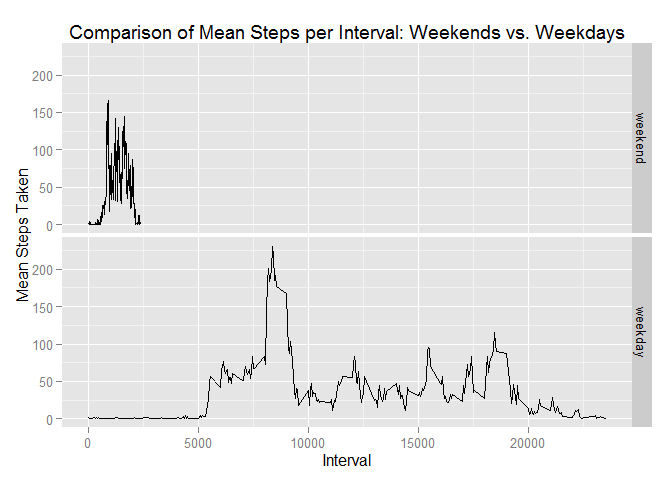
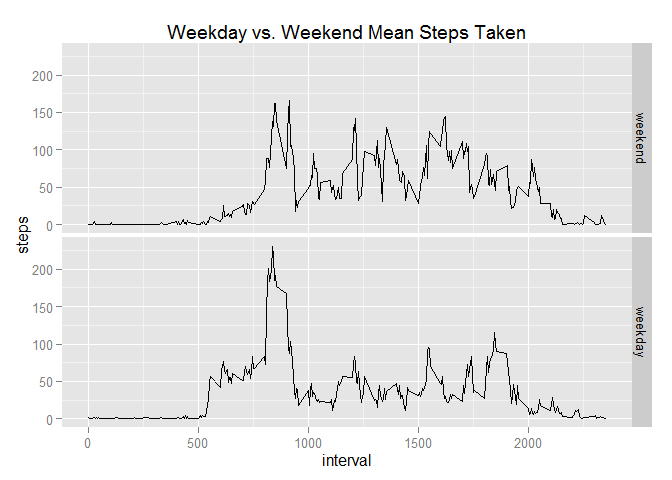
Final Commit Hopefully

diff --git a/PA1_template.html b/PA1_template.html
@@ -237,12 +237,19 @@ wkdyStepsByInterval$day.type&lt;- &quot;weekday&quot;
 wkdyStepsByInterval$interval &lt;- row.names(wkdyStepsByInterval)</code></pre>
 <p>Combine the datasets into one easily usable by the ggplot2 package and decare the different facets of the data</p>
 <pre class="r"><code>compareActivity&lt;-rbind(wkndStepsByInterval, wkdyStepsByInterval)
+compareActivity$interval&lt;-as.numeric(compareActivity$interval)
 compareActivity$day.type &lt;- factor(compareActivity$day.type,levels=c(&quot;weekend&quot;, &quot;weekday&quot;),
                       labels=c(&quot;weekend&quot;, &quot;weekday&quot;))</code></pre>
 <p>Plot the data sets as time series using the ggplot2 plotting system.</p>
-<pre class="r"><code>qplot(as.numeric(row.names(compareActivity)), compareActivity$steps,data = compareActivity, facets = day.type~. , geom = &quot;line&quot;, xlab = &quot;Interval&quot;, ylab = &quot;Mean Steps Taken&quot;, main = &quot;Comparison of Mean Steps per Interval: Weekends vs. Weekdays&quot;)</code></pre>
[1 lines of base64/hex data omitted]
-<p>The plot shows us that there is on average much fewer steps taken on weekends, and what steps are taken are confined to a few intervals soon after midnight, while weekday activity is much greater and spread throughout the day.</p>
+<pre class="r"><code>panelPlot&lt;-ggplot(compareActivity, 
+                  aes(x = interval, y = steps, group = day.type, main = &quot;Title&quot;))
+panelPlot &lt;- panelPlot + ggtitle(&quot;Weekday vs. Weekend Mean Steps Taken&quot;)
+panelPlot &lt;- panelPlot + facet_grid(day.type ~.)
+panelPlot &lt;- panelPlot + geom_line() 
+
+panelPlot</code></pre>
[1 lines of base64/hex data omitted]
+<p>The plot shows us that on average, the weekend activity peaks early in the day, while activity is much more constant throughout the day during weekdays.</p>
 </div>
 </div>
 

diff --git a/PA1_template.md b/PA1_template.md
@@ -295,6 +295,7 @@ Combine the datasets into one easily usable by the ggplot2 package and decare th
 
 ```r
 compareActivity<-rbind(wkndStepsByInterval, wkdyStepsByInterval)
+compareActivity$interval<-as.numeric(compareActivity$interval)
 compareActivity$day.type <- factor(compareActivity$day.type,levels=c("weekend", "weekday"),
                       labels=c("weekend", "weekday"))
 ```
@@ -302,11 +303,17 @@ compareActivity$day.type <- factor(compareActivity$day.type,levels=c("weekend", 
 Plot the data sets as time series using the ggplot2 plotting system.
 
 ```r
-qplot(as.numeric(row.names(compareActivity)), compareActivity$steps,data = compareActivity, facets = day.type~. , geom = "line", xlab = "Interval", ylab = "Mean Steps Taken", main = "Comparison of Mean Steps per Interval: Weekends vs. Weekdays")
+panelPlot<-ggplot(compareActivity, 
+                  aes(x = interval, y = steps, group = day.type, main = "Title"))
+panelPlot <- panelPlot + ggtitle("Weekday vs. Weekend Mean Steps Taken")
+panelPlot <- panelPlot + facet_grid(day.type ~.)
+panelPlot <- panelPlot + geom_line() 
+
+panelPlot
 ```
 
 ![](figure/panelPlot-1.png) 
 
-The plot shows us that there is on average much fewer steps taken on weekends, and what steps are taken are confined to a few intervals soon after midnight, while weekday activity is much greater and spread throughout the day.
+The plot shows us that on average, the weekend activity peaks early in the day, while activity is much more constant throughout the day during weekdays.
 
 
